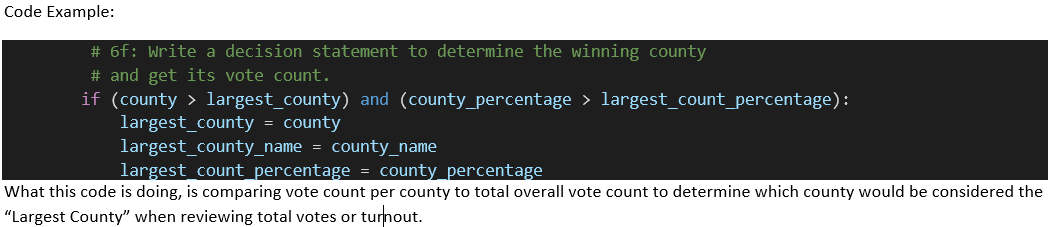
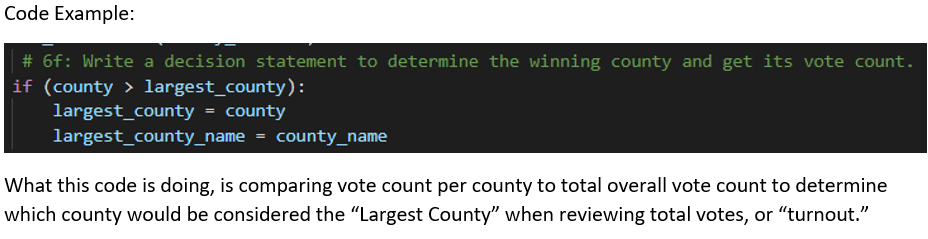
Adding final analysis adjustments

diff --git a/PyPoll_Challenge.py b/PyPoll_Challenge.py
@@ -30,7 +30,6 @@ winning_percentage = 0
 largest_turnout_county = ""
 largest_turnout_count = 0
 largest_county = 0
-largest_count_percentage = 0
 
 # Read the csv and convert it into a list of dictionaries
 with open(file_to_load) as election_data:
@@ -107,10 +106,9 @@ with open(file_to_save, "w") as txt_file:
          # 6e: Save the county votes to a text file.
         txt_file.write(county_results)
          # 6f: Write a decision statement to determine the winning county and get its vote count.
-        if (county > largest_county) and (county_percentage > largest_count_percentage):
+        if (county > largest_county):
             largest_county = county
             largest_county_name = county_name
-            largest_count_percentage = county_percentage
 
     # 7: Print the county with the largest turnout to the terminal.
     largest_county_summary = (
